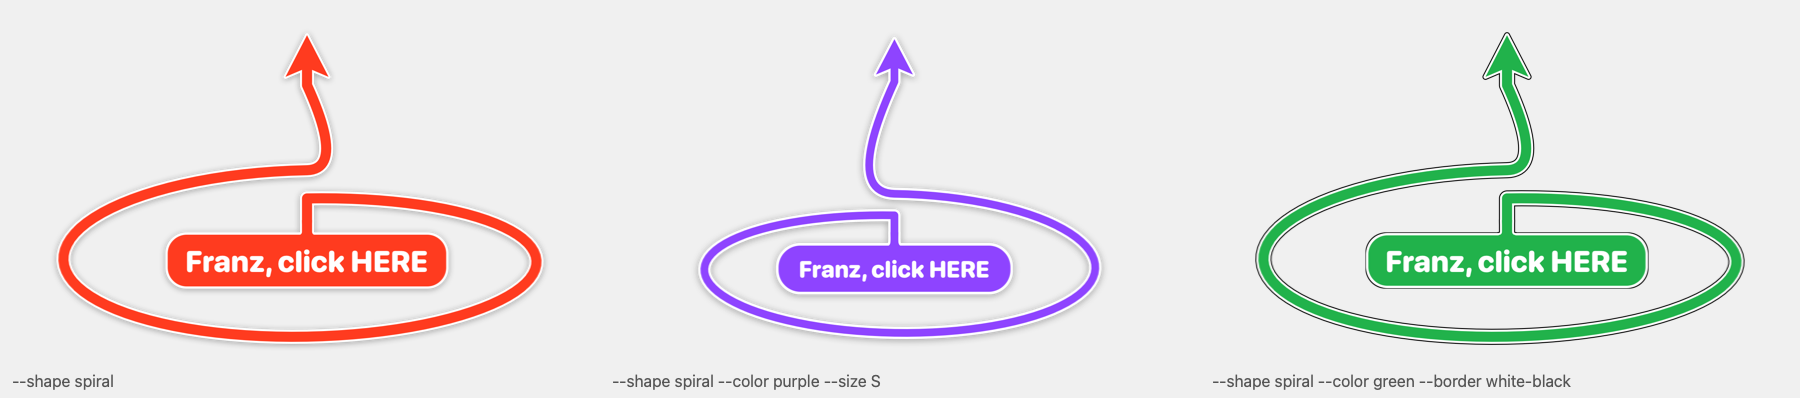
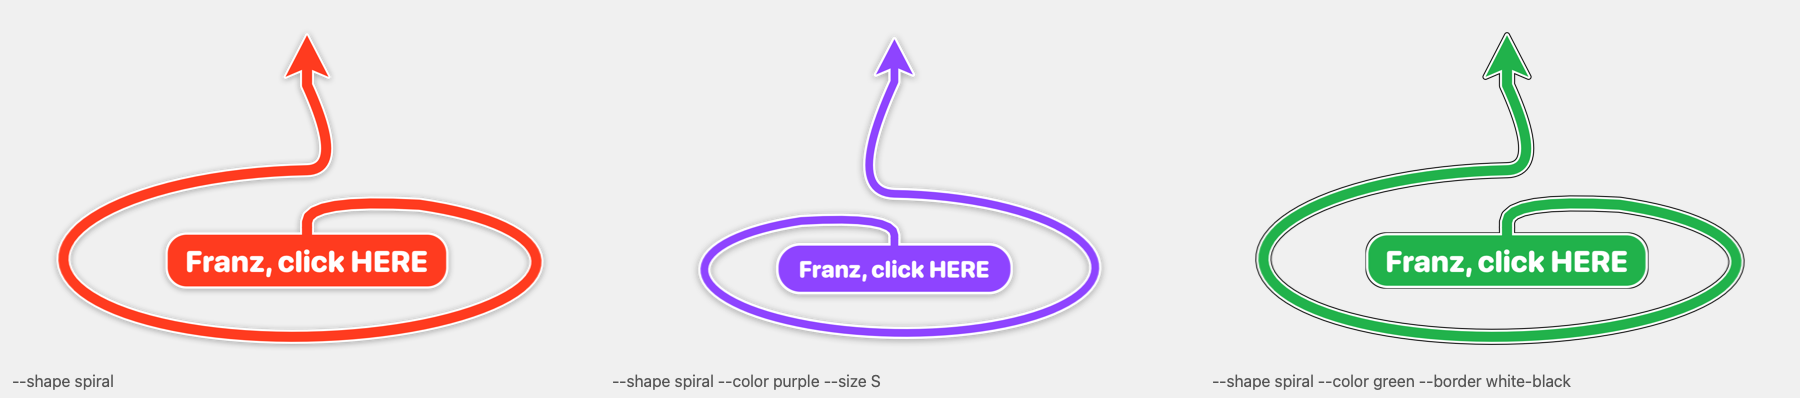
Spiral: curve smoothly from the sign into the loop

Changed region(s): [[0.8089, 0.4523, 0.9022, 0.5427], [0.1556, 0.4824, 0.2489, 0.5427], [0.4356, 0.5126, 0.4978, 0.603]]

diff --git a/Sources/BigArrowCore/Spiral.swift b/Sources/BigArrowCore/Spiral.swift
@@ -16,6 +16,11 @@ public enum Spiral {
     static let runIn: CGFloat = 1.2
     /// The leg to the target starts along the loop's tangent for this share of its length.
     static let legTangent: CGFloat = 0.45
+    /// The shaft curves into the loop over this many loop samples, with the corner it would
+    /// otherwise turn as the curve's control point, so it never turns a right angle there.
+    static let entrySamples = 8
+    /// The straight stub out of the sign before that curve, in strokes.
+    static let entryStub: CGFloat = 1
 
     public struct Request: Sendable {
         public let sign: CGRect
@@ -59,12 +64,16 @@ public enum Spiral {
         let radii = CGSize(width: request.sign.width / 2 * 2.squareRoot() + gap, height: request.sign.height / 2 * 2.squareRoot() + gap)
         let offset = request.junction.point - center
         let start = atan2(offset.y / radii.height, offset.x / radii.width)
-        return (0...loopSamples).map { index in
+        let ring = (0...loopSamples).map { index in
             let share = CGFloat(index) / CGFloat(loopSamples)
             let angle = start + turn * 2 * .pi * share
             let grown = growth * share
             return center + CGPoint(x: (radii.width + grown) * cos(angle), y: (radii.height + grown) * sin(angle))
         }
+        let stub = request.junction.point + request.junction.normal * (request.metrics.stroke * entryStub)
+        let entry = QuadCurve(start: stub, control: ring[0], end: ring[entrySamples])
+        let blend = (0..<entrySamples).map { entry.point(CGFloat($0) / CGFloat(entrySamples)) }
+        return blend + ring.dropFirst(entrySamples)
     }
 
     /// How well the loop's last step points at the target: 1 straight at it, -1 away from it.

diff --git a/Tests/BigArrowCoreTests/SpiralTests.swift b/Tests/BigArrowCoreTests/SpiralTests.swift
@@ -21,11 +21,12 @@ struct SpiralTests {
             Issue.record("a spiral must be a polyline")
             return
         }
-        // points[0] is the tail inside the sign; the loop's 97 samples follow it.
+        // points[0] is the tail inside the sign; the loop's 97 samples (entry curve included) follow it.
         let loop = Array(points.dropFirst().prefix(97))
         let stroke = ArrowSize.medium.metrics.stroke
         let clear = planned.signRect.insetBy(dx: -stroke, dy: -stroke)
-        #expect(loop.allSatisfy { !clear.contains($0) }, "the loop runs over the sign")
+        // The first 8 points curve out of the sign into the loop; from there on it keeps clear.
+        #expect(loop.dropFirst(8).allSatisfy { !clear.contains($0) }, "the loop runs over the sign")
         let center = CGPoint(x: planned.signRect.midX, y: planned.signRect.midY)
         let angles = loop.map { atan2($0.y - center.y, $0.x - center.x) }
         let turned = zip(angles, angles.dropFirst()).reduce(CGFloat(0)) { sum, pair in
@@ -34,7 +35,8 @@ struct SpiralTests {
             if step < -.pi { step += 2 * .pi }
             return sum + step
         }
-        #expect(abs(abs(turned) - 2 * .pi) < 0.2, "turned \(turned) rad")
+        // The entry curve starts at the sign, so the loop seen from the sign's centre turns a bit less than 360°.
+        #expect(abs(turned) > 2 * .pi * 0.85, "turned \(turned) rad")
         let start = try #require(loop.first)
         let end = try #require(loop.last)
         #expect(start.distance(to: end) >= stroke * 2.5, "the loop's end must clear its start")

diff --git a/CHANGELOG.md b/CHANGELOG.md
@@ -2,6 +2,11 @@
 
 All notable changes to this project are documented here. Format: [Keep a Changelog](https://keepachangelog.com/en/1.1.0/), versions: [Semantic Versioning](https://semver.org/spec/v2.0.0.html).
 
+## [0.4.1] - 2026-10-09
+
+### Fixed
+- `--shape spiral` curves out of the sign into its loop instead of turning a right angle where the stub meets the loop.
+
 ## [0.4.0] - 2026-10-09
 
 ### Added
